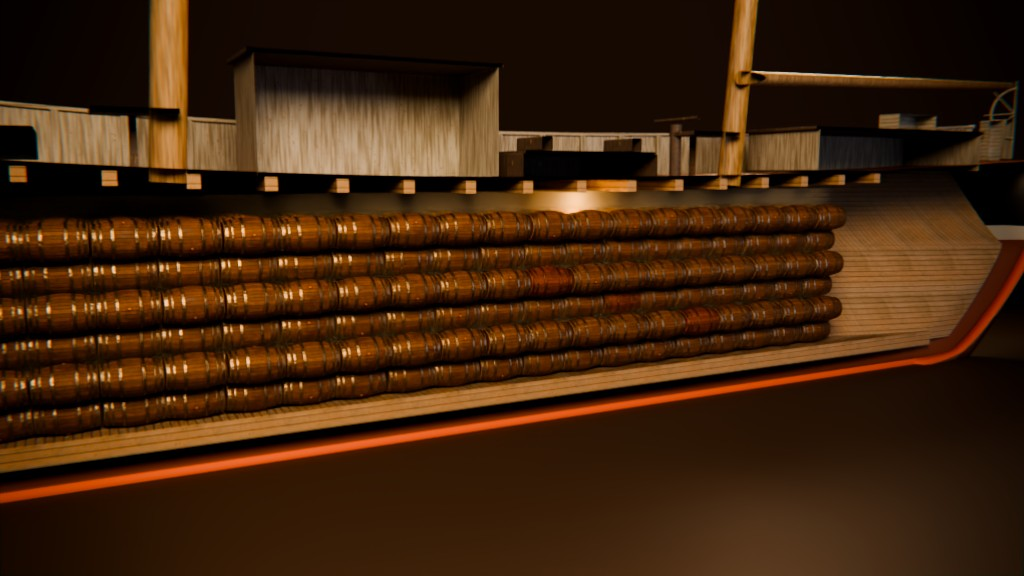
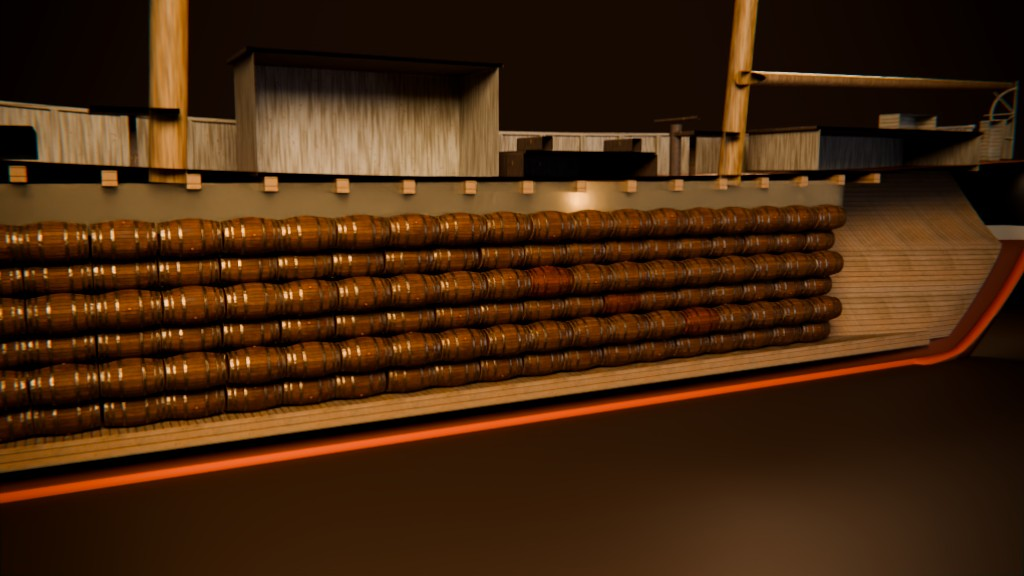
P4: cutaway vapour reads under the deck
Claude-Session: https://claude.ai/code/session_01XfwPSkhnU2Djq2czjjCShx

diff --git a/mary_celeste_p4/shots/sets.py b/mary_celeste_p4/shots/sets.py
@@ -127,14 +127,14 @@ def set_cutaway(water=0.0, vapor=0.0, lantern=True):
         wm = p4.mat("bilge", (0.02, 0.03, 0.025), rough=0.05)
         ship.box("bilgewater", (0.8, -1.2, -2.55 + water / 2), (21, 2.6, water), wm)
     if vapor:
-        bpy.ops.mesh.primitive_cube_add(size=1, location=(0.8, -1.6, -0.6)); v = bpy.context.active_object; v.name = "vapor"
-        v.scale = (17, 3.0, 3.4)
+        bpy.ops.mesh.primitive_cube_add(size=1, location=(0.8, -1.45, 0.9)); v = bpy.context.active_object; v.name = "vapor"
+        v.scale = (17.5, 2.95, 0.75)                     # the space between the top tier and the deck beams
         vm = bpy.data.materials.new("vapor"); vm.use_nodes = True; N = vm.node_tree.nodes; L = vm.node_tree.links
         N.remove(N["Principled BSDF"]); vol = N.new("ShaderNodeVolumePrincipled")
         vol.inputs['Density'].default_value = 0.0; vol.inputs['Color'].default_value = (1.0, 0.85, 0.6, 1)
         nz = N.new("ShaderNodeTexNoise"); nz.inputs['Scale'].default_value = 0.9; nz.inputs['Detail'].default_value = 4
-        mr = N.new("ShaderNodeMapRange"); mr.inputs['From Min'].default_value = 0.4; mr.inputs['From Max'].default_value = 0.75
-        mr.inputs['To Max'].default_value = 1.4 * vapor
+        mr = N.new("ShaderNodeMapRange"); mr.inputs['From Min'].default_value = 0.25; mr.inputs['From Max'].default_value = 0.75
+        mr.inputs['To Min'].default_value = 1.2 * vapor; mr.inputs['To Max'].default_value = 5.0 * vapor
         L.new(nz.outputs['Fac'], mr.inputs['Value']); L.new(mr.outputs[0], vol.inputs['Density'])
         L.new(vol.outputs[0], N["Material Output"].inputs['Volume']); v.data.materials.append(vm)
     return dict(ship=s, barrels=res)
